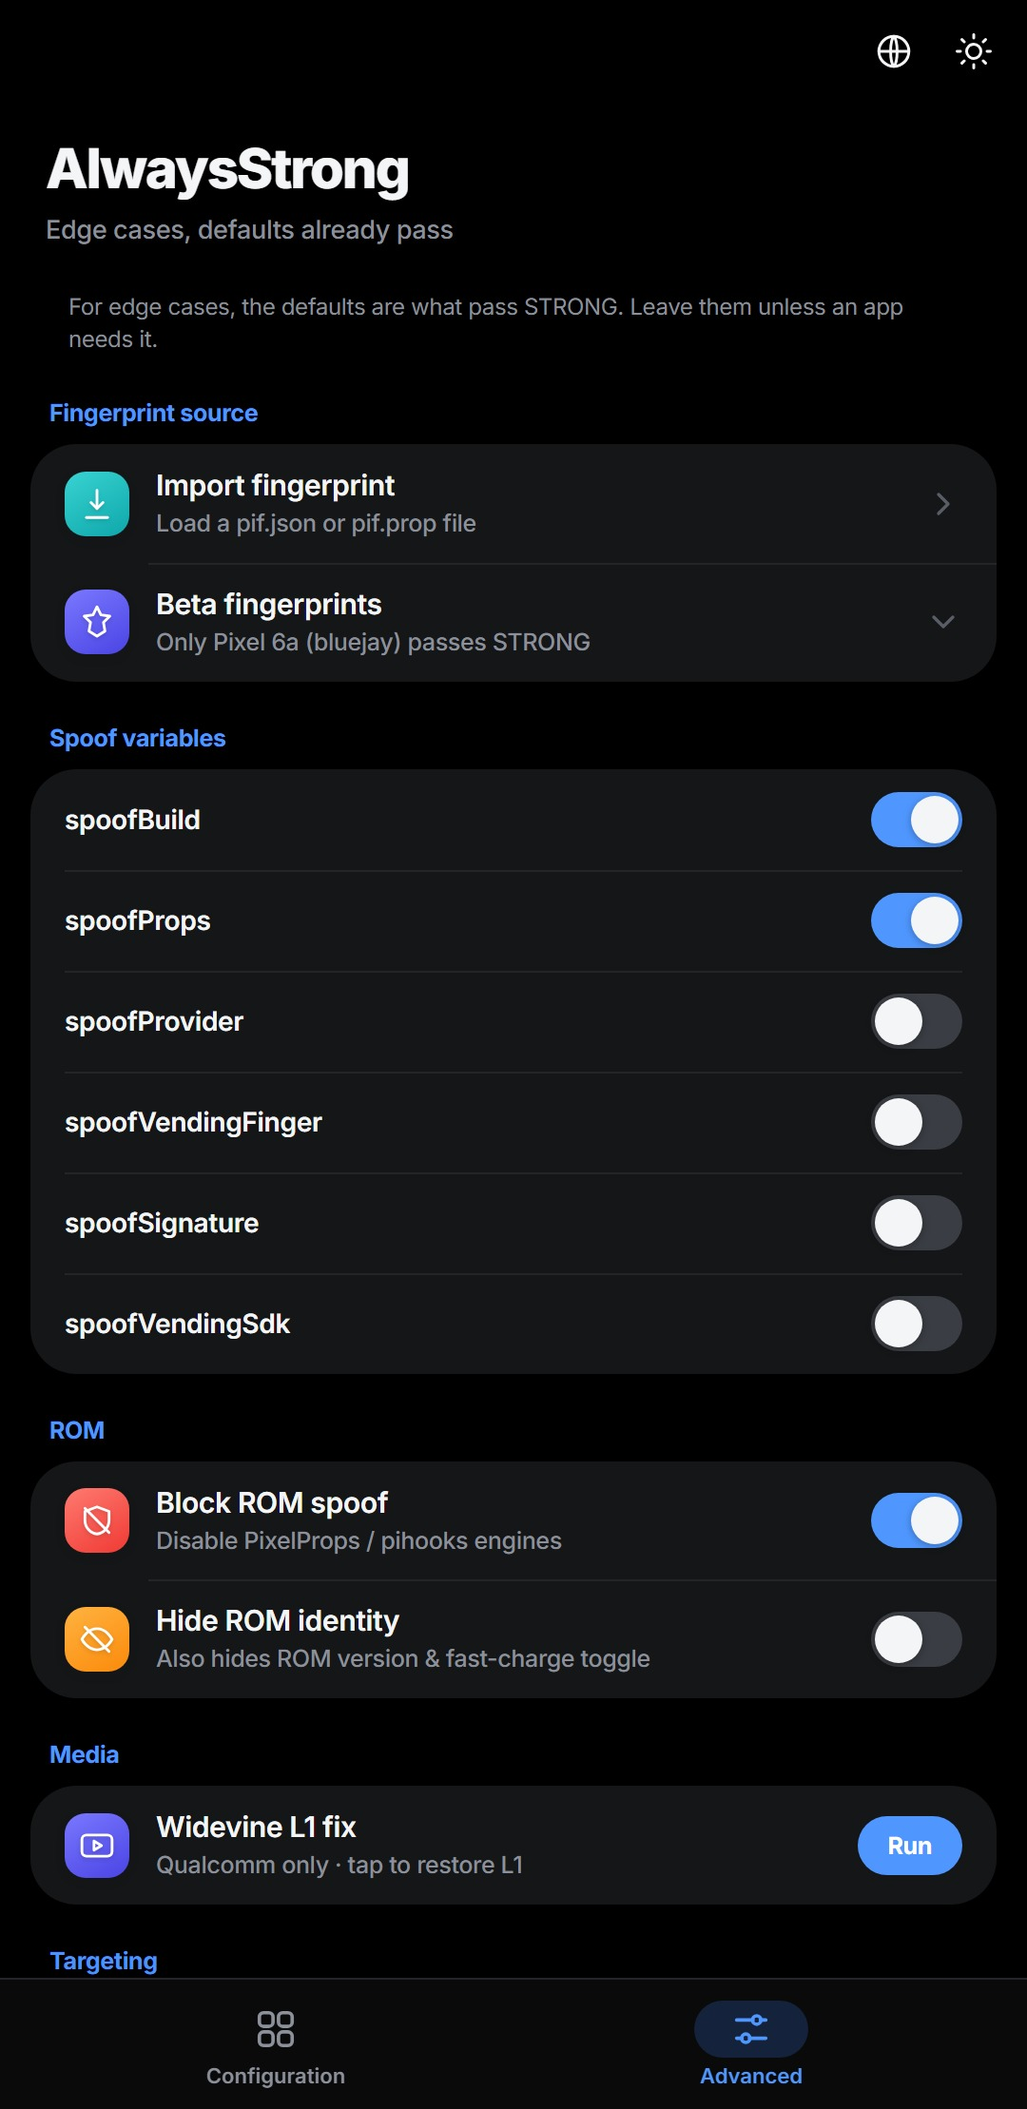
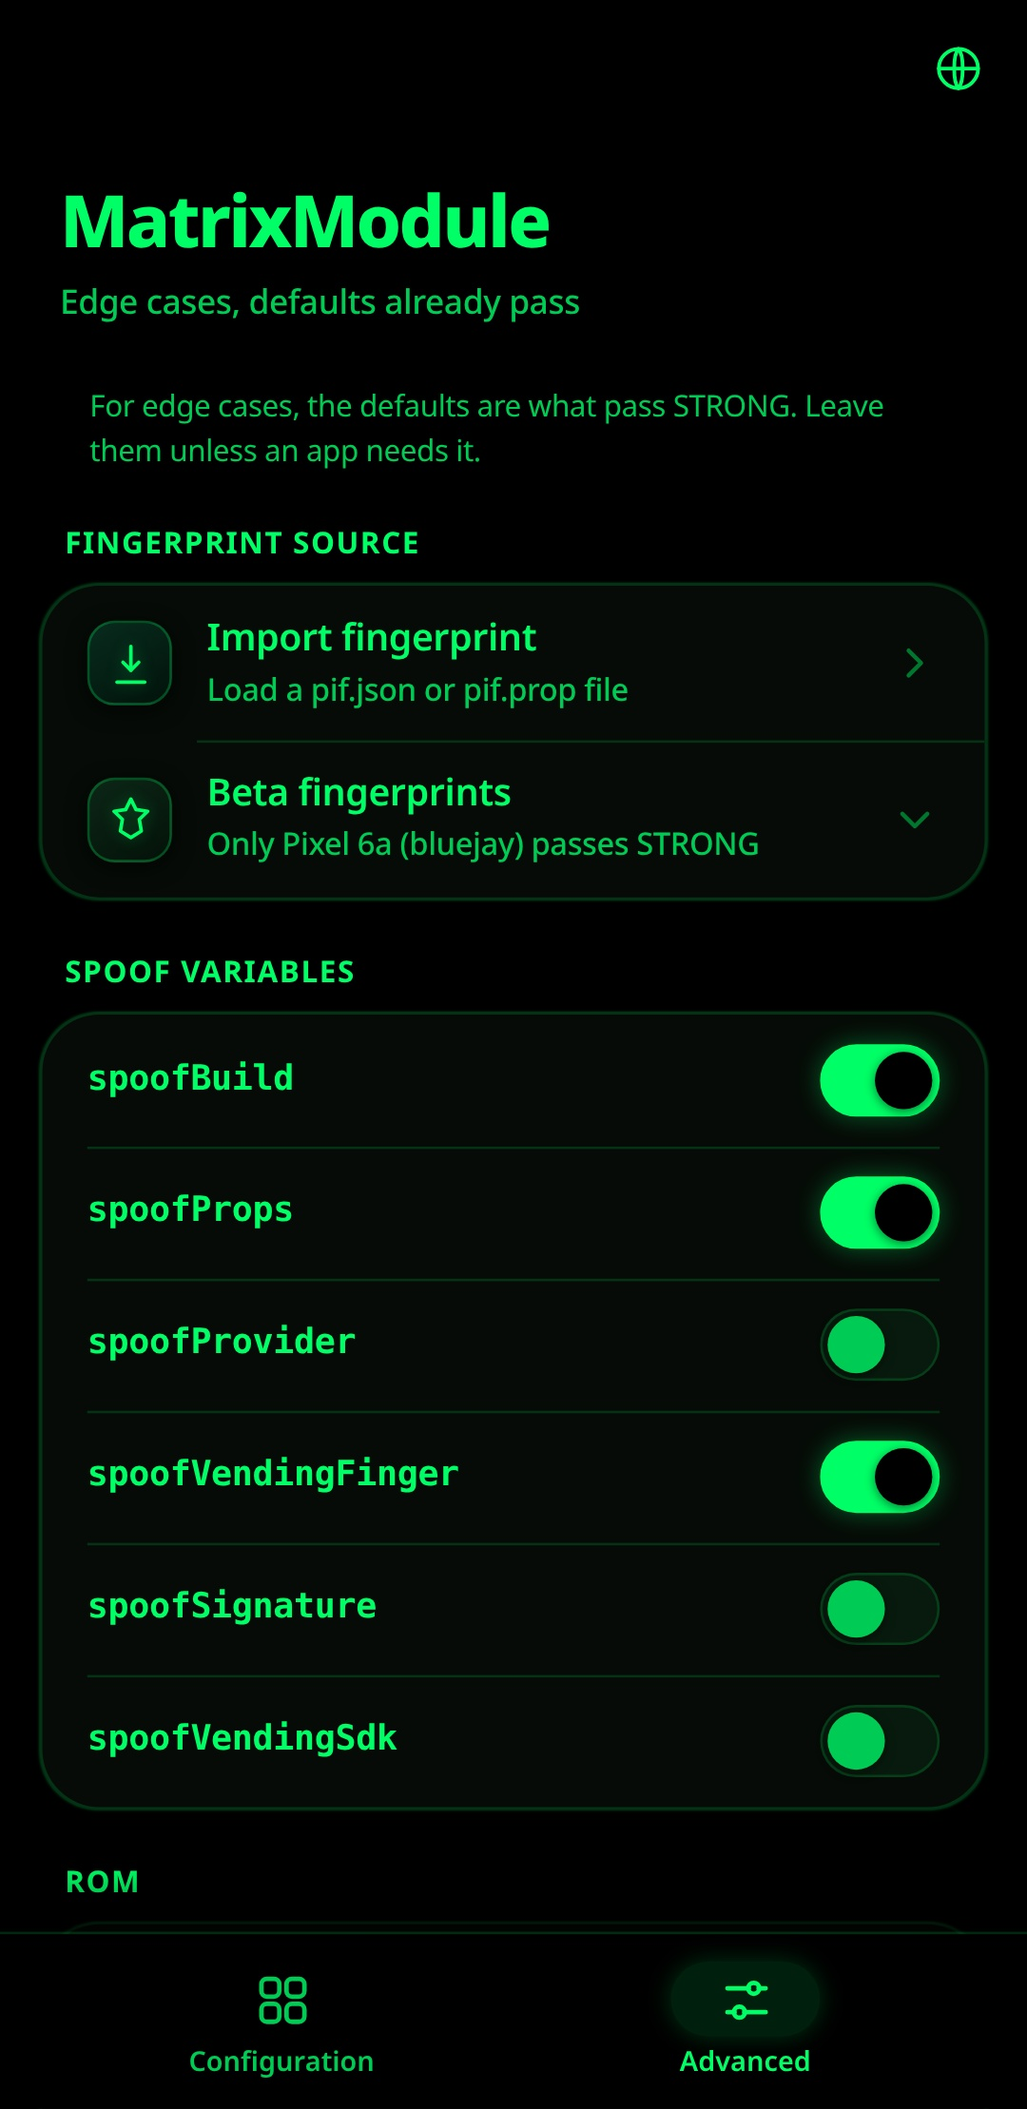
docs: update README with refreshed pitch-black cyber UI screenshots and complete feature guide

diff --git a/scripts/generate_screenshots.py b/scripts/generate_screenshots.py
@@ -1,0 +1,116 @@
+#!/usr/bin/env python3
+import os, sys, time, threading, http.server, socketserver
+from playwright.sync_api import sync_playwright
+
+PORT = 8912
+webroot = os.path.abspath('module/webroot')
+screenshots_dir = os.path.abspath('screenshots')
+os.makedirs(screenshots_dir, exist_ok=True)
+
+class Handler(http.server.SimpleHTTPRequestHandler):
+    def __init__(self, *args, **kwargs):
+        super().__init__(*args, directory=webroot, **kwargs)
+
+class ReusableTCPServer(socketserver.TCPServer):
+    allow_reuse_address = True
+
+httpd = ReusableTCPServer(('127.0.0.1', PORT), Handler)
+t = threading.Thread(target=httpd.serve_forever, daemon=True)
+t.start()
+
+mock_js = """
+window.ksu = {
+  exec: function(cmd, opts, cb) {
+    var out = '';
+    if (cmd.indexOf('pid_attest') !== -1) {
+      out = 'pid_attest=2418\\ndeny_cnt=12\\nhma_status=1\\nhma_mod=0\\nhma_cfg=1\\nhidden_cnt=6\\ntarget_cnt=8\\nspoof_model=Pixel 6a\\nselinux=Enforcing';
+    } else if (cmd.indexOf('description=') !== -1) {
+      out = 'Strong Play Integrity in one drop-in module. TEE-Simulator-RS + PlayIntegrityFork, auto-refreshed.';
+    } else if (cmd.indexOf('keybox.xml') !== -1) {
+      out = '16384|evokerrkey36';
+    } else if (cmd.indexOf('pif_name') !== -1) {
+      out = 'n=Pixel 6a\\nm=bluejay';
+    } else if (cmd.indexOf('SECURITY_PATCH') !== -1) {
+      out = '2026-11-05';
+    } else if (cmd.indexOf('hidden_apps') !== -1) {
+      out = 'com.topjohnwu.magisk\\nme.weishu.kernelsu\\norg.lsposed.manager\\nio.github.vvb2060.magisk\\nbin.mt.plus\\ncom.termux';
+    } else if (cmd.indexOf('target.txt') !== -1) {
+      out = 'com.google.android.gms\\ncom.android.vending\\ncom.google.android.apps.walletnfcrel\\ncom.snapchat.android\\ncom.zhiliaoapp.musically\\ncom.paytm.app';
+    } else if (cmd.indexOf('config') !== -1 || cmd.indexOf('STORE get') !== -1) {
+      out = 'auto_fp=1\\nauto_kb=1\\nstatus_pfx=1\\ninterval_sec=3600';
+    } else if (cmd.indexOf('pm list packages') !== -1) {
+      out = 'com.topjohnwu.magisk\\nme.weishu.kernelsu\\norg.lsposed.manager\\nio.github.vvb2060.magisk\\nbin.mt.plus\\ncom.termux\\ncom.google.android.gms\\ncom.android.vending\\ncom.google.android.apps.walletnfcrel\\ncom.snapchat.android\\ncom.paytm.app';
+    }
+    setTimeout(function() {
+      if (window[cb]) window[cb](0, out, '');
+    }, 10);
+  },
+  getPackagesInfo: function(jsonStr) {
+    var pkgs = JSON.parse(jsonStr || '[]');
+    var map = {
+      'com.topjohnwu.magisk': 'Magisk',
+      'me.weishu.kernelsu': 'KernelSU',
+      'org.lsposed.manager': 'LSPosed',
+      'io.github.vvb2060.magisk': 'Alpha Magisk',
+      'bin.mt.plus': 'MT Manager',
+      'com.termux': 'Termux',
+      'com.google.android.gms': 'Google Play Services',
+      'com.android.vending': 'Google Play Store',
+      'com.google.android.apps.walletnfcrel': 'Google Wallet',
+      'com.snapchat.android': 'Snapchat',
+      'com.paytm.app': 'Paytm'
+    };
+    var res = pkgs.map(function(p) {
+      return { packageName: p, appLabel: map[p] || p };
+    });
+    return JSON.stringify(res);
+  }
+};
+"""
+
+with sync_playwright() as p:
+    browser = p.chromium.launch(headless=True)
+    
+    # 1. Main Configuration WebUI Screenshot
+    context = browser.new_context(
+        viewport={'width': 412, 'height': 846},
+        device_scale_factor=2.621359,
+        color_scheme='dark'
+    )
+    context.add_init_script(mock_js)
+    page = context.new_page()
+    page.goto(f'http://127.0.0.1:{PORT}/index.html')
+    time.sleep(1.2)
+    webui_path = os.path.join(screenshots_dir, 'webui.jpg')
+    page.screenshot(path=webui_path, type='jpeg', quality=95)
+    print(f'Generated: {webui_path}')
+
+    # 2. Advanced Tab Screenshot
+    page.click('button[data-pg="pgAdv"]')
+    time.sleep(0.5)
+    adv_path = os.path.join(screenshots_dir, 'advanced.jpg')
+    page.screenshot(path=adv_path, type='jpeg', quality=95)
+    print(f'Generated: {adv_path}')
+
+    # 3. Languages Modal Screenshot
+    page.click('button[data-pg="pgMain"]')
+    time.sleep(0.3)
+    page.click('#langBtn')
+    time.sleep(0.5)
+    lang_path = os.path.join(screenshots_dir, 'languages.jpg')
+    page.screenshot(path=lang_path, type='jpeg', quality=95)
+    print(f'Generated: {lang_path}')
+
+    # 4. App Isolation (Zero-APK HMA) Modal Screenshot
+    page.reload()
+    time.sleep(1.0)
+    page.click('#hideRow')
+    time.sleep(0.8)
+    isolation_path = os.path.join(screenshots_dir, 'app_isolation.jpg')
+    page.screenshot(path=isolation_path, type='jpeg', quality=95)
+    print(f'Generated: {isolation_path}')
+
+    browser.close()
+
+httpd.shutdown()
+print('All screenshots generated successfully!')

diff --git a/README.md b/README.md
@@ -8,15 +8,22 @@
 [![License](https://img.shields.io/badge/license-GPL--3.0-orange)](LICENSE)
 [![Version](https://img.shields.io/badge/version-v1.1.1-blue)](CHANGELOG.md)
 
-<img src="screenshots/webui.jpg" width="30%" alt="WebUI"> &nbsp; <img src="screenshots/advanced.jpg" width="30%" alt="Advanced"> &nbsp; <img src="screenshots/languages.jpg" width="30%" alt="Translated into 15 languages">
+<p align="center">
+  <img src="screenshots/webui.jpg" width="23%" alt="Dashboard & Live Health"> &nbsp;
+  <img src="screenshots/app_isolation.jpg" width="23%" alt="Zero-APK Root App Isolation"> &nbsp;
+  <img src="screenshots/advanced.jpg" width="23%" alt="Advanced Spoofing"> &nbsp;
+  <img src="screenshots/languages.jpg" width="23%" alt="15 Languages">
+</p>
 
-<sub>Built-in WebUI on KernelSU / APatch: hourly auto-update toggles, an Advanced tab, translated into 15 languages.</sub>
+<sub>Built-in Pitch-Black Cyber WebUI on KernelSU / APatch: Live System Health Dashboard, Zero-APK Root App Isolation, granular Play Integrity spoofing, translated into 15 languages.</sub>
 
 </div>
 
 # MatrixModule
 
-One-flash `STRONG` Play Integrity for Magisk / KernelSU / APatch. It bundles [TEESimulator-RS](https://github.com/Enginex0/TEESimulator-RS) and [PlayIntegrityFork](https://github.com/osm0sis/PlayIntegrityFork) into a single module so you don't have to stack and wire them up yourself.
+**The All-In-One Root Cloaking & Play Integrity Suite for Android (Magisk / KernelSU / APatch / SukiSU).**
+
+MatrixModule unifies **Hardware Attestation (`STRONG`)**, **Automated Play Integrity Fingerprint Spoofing**, and **Built-in Zero-APK App Isolation (HMA)** into a single, clean drop-in module. It bundles [TEESimulator-RS](https://github.com/Enginex0/TEESimulator-RS), [PlayIntegrityFork](https://github.com/osm0sis/PlayIntegrityFork), and an integrated headless Zygote hook engine derived from [HMA-OSS](https://github.com/frknkrc44/HMA-OSS) so you get top-tier root cloaking and integrity passing without managing multiple modules, installing manager APKs, or dealing with manual wiring.
 
 To use this module you need one of the following (latest versions), with a Zygisk implementation installed:
 
@@ -31,10 +38,10 @@ Android 10+ (SDK 29) is required.
 1. Install a Zygisk implementation (Zygisk Next / ReZygisk / NeoZygisk).
 2. Download the latest ZIP from [Releases](https://github.com/mengalpratik/MatrixModule/releases).
 3. Flash it in your root manager and reboot.
-4. Open the module and tap **Action**.
-5. Check your verdict with a checker (Play Integrity API Checker, YASNAC, Simple PIC).
+4. Open the module and tap **Action** (or configure via the built-in WebUI).
+5. Check your verdict with an integrity checker (Play Integrity API Checker, YASNAC, Simple PIC) and root detectors.
 
-The first Action tap fetches a working keybox and a fresh Pixel fingerprint and restarts Play Integrity, so there is no manual keybox step. The installer also removes conflicting standalone modules at install time (TrickyStore, PlayIntegrityFix/Fork, TEESimulator, playcurl/playcurlNEXT, SafetyNet Fix, MagiskHidePropsConf, Tricky Addon, Yurikey, and a few others).
+The first Action tap fetches a working keybox and a fresh Pixel fingerprint and restarts Play Integrity, so there is no manual keybox step. The installer also removes conflicting standalone modules at install time (TrickyStore, PlayIntegrityFix/Fork, TEESimulator, playcurl/playcurlNEXT, SafetyNet Fix, MagiskHidePropsConf, Tricky Addon, Yurikey, and older separate HMA modules).
 
 ### Which build to download
 
@@ -61,42 +68,52 @@ Details, caveats (in particular Lite + `-TEESIM`) and how to build them: **[docs
 
 </details>
 
-## Features
+## Core Features
 
-- **One flash, `STRONG`.** TEESimulator-RS + PlayIntegrityFork in a single module. No stacking, no manual wiring.
+- **Strict Single Module Architecture.** Shows up cleanly as strictly **ONE single module** (`tricky_store`) in Magisk, KernelSU, or APatch. No phantom secondary modules, no manager clutter.
+- **One flash, `STRONG`.** TEESimulator-RS + PlayIntegrityFork merged into a single module. No stacking, no manual wiring.
+- **Built-in Zero-APK App Isolation (HMA Engine).** Headless Zygote package-manager hook engine derived from HMA-OSS. Hide root and sensitive apps (Magisk, KernelSU, APatch, LSPosed, Termux, MT Manager, etc.) with automatic root app detection and 1-tap toggles. Zero APKs required on device; configuration is written directly to `/data/misc/hide_my_applist_*` with real-time `system_server` hot-reloading.
+- **Live System Health & Hiding Dashboard.** Real-time status cards on the WebUI Configuration tab:
+  - 🟢 **Attestation Daemon:** Active supervisor process & PID verification.
+  - 🟢 **Play Integrity Spoof:** Live spoof model & Canary identity.
+  - 🟢 **Root Mount Protection:** Real-time Magisk DenyList / Shamiko protection count.
+  - 🟢 **App Isolation (HMA):** Active headless engine mode & hidden app count.
+  - 🟢 **SELinux & Tamper Props:** Strict Enforcing verification & bootloader flag checks.
+- **Pure Pitch-Black Matrix WebUI.** Pure `#000000` pitch black background, `#060b07` card surfaces, and `#00ff66` neon accents.
 - **Keybox on tap.** The first **Action** fetches a working keybox automatically.
 - **A fingerprint that never goes stale.** Every Action pulls a fresh Pixel fingerprint and matching security patch, and a background service does the same **every hour** (interval configurable, each toggle-able from the WebUI).
-- **Hands-off keybox too.** The hourly service re-checks the keybox and only swaps it in when a newer one is available.
+- **Multi-CDN Mirror Fallback.** Native `asfetch` and shell crawlers automatically fall back across GitHub and jsDelivr CDN mirrors.
+- **GMS DroidGuard Recycling (`as_killpi`).** Force-stops DroidGuard (`com.google.android.gms.unstable`) and Play Store on each refresh with `killall -9` fallback for robust Android 15/16/17 binder compatibility.
 - **Auto target.** A native watcher follows package changes via inotify: install a new app and it's added to the attestation target instantly.
 - **Xposed-aware.** LSPosed / Xposed managers are kept out of the target list, since attesting through a hooked process breaks `STRONG`.
-- **Conflict resolution.** Known conflicting modules (TrickyStore, other PIF / TEE forks, SafetyNet Fix, MagiskHidePropsConf, …) are disabled at install and on every boot.
+- **Conflict resolution.** Known conflicting modules (TrickyStore, other PIF / TEE forks, SafetyNet Fix, MagiskHidePropsConf, older HMA modules, …) are disabled at install and on every boot.
 - **WebUI Advanced tab.** Import your own fingerprint (`pif.json` / `pif.prop`), flip any Play Integrity spoof flag by its real name, add custom target packages, or switch to your own keybox. **Reset to defaults** at the bottom undoes every toggle and re-runs Action, keeping your keybox.
 
 <details>
-<summary><b>More: GMS kill, security-patch sync, one clean module</b></summary>
+<summary><b>More: Security-patch sync, one clean module</b></summary>
 
-- **GMS kill.** Force-stops DroidGuard (`com.google.android.gms.unstable`) and clears the Play Store on each refresh, so a new fingerprint or keybox takes effect without a reboot.
 - **Security-patch sync.** Keeps the OS / vendor / boot security-patch levels reported in attestation aligned with the spoofed fingerprint.
-- **One clean module.** PIF is binary-patched to run inside `tricky_store` — it never litters a separate `playintegrityfix` folder under `/data/adb/modules`.
+- **One clean module.** PIF and HMA are binary-patched to run inside `tricky_store` — they never litter separate folders under `/data/adb/modules`.
 - **Lite builds drive your own PIF.** On a `-nopif` build the Advanced spoof toggles edit a standalone PlayIntegrityFork / PlayIntegrityFix you installed yourself, and its fingerprint is mirrored into the attested identity.
 
 </details>
 
 <details>
-<summary><b>About the module: how the two halves are glued together</b></summary>
+<summary><b>About the module: architecture and engine integration</b></summary>
 
-MatrixModule is two parts merged into one module:
+MatrixModule integrates three critical security and integrity components into one cohesive architecture:
 
-- **TEESimulator-RS** intercepts Binder IPC inside the `keystore2` process and builds full attestation certificate chains from your keybox, so apps that verify hardware key attestation see a legitimate TEE. It is not a fork of TrickyStore; it reuses the same `/data/adb/tricky_store` config layout for drop-in compatibility, but the internals (native Rust certgen, `lsplt` interception, key persistence) are different.
-- **PlayIntegrityFork** injects a `classes.dex` to modify `android.os.Build` fields and hooks native code to spoof system properties, only to Google Play Services' DroidGuard (Play Integrity).
+1. **TEESimulator-RS** intercepts Binder IPC inside the `keystore2` process and builds full attestation certificate chains from your keybox, so apps that verify hardware key attestation see a legitimate TEE. It is not a fork of TrickyStore; it reuses the same `/data/adb/tricky_store` config layout for drop-in compatibility, but the internals (native Rust certgen, `lsplt` interception, key persistence) are different.
+2. **PlayIntegrityFork** injects a `classes.dex` to modify `android.os.Build` fields and hooks native code to spoof system properties, targeting Google Play Services' DroidGuard (Play Integrity).
+3. **Headless HMA-OSS Engine** hooks into the Zygote `system_server` package manager service to isolate target apps from discovering root tools, managers, and sensitive packages, completely eliminating the need for `manager.apk`.
 
-TEESimulator's `classes.dex` is renamed to `tee_classes.dex` so it doesn't collide with PIF's, and PIF's hardcoded module paths are binary-patched to point at `/data/adb/modules/tricky_store` — it never creates a separate `playintegrityfix` folder. The module id stays `tricky_store` so existing tooling and tutorials keep working unchanged.
+TEESimulator's `classes.dex` is renamed to `tee_classes.dex` so it doesn't collide with PIF's, and PIF's hardcoded module paths are binary-patched to point at `/data/adb/modules/tricky_store` — it never creates a separate `playintegrityfix` folder. The module id stays `tricky_store` so existing tooling and root managers keep working unchanged.
 
 </details>
 
 ## The Action button
 
-Triggered from your root manager, or by running `sh action.sh` in a root shell. Each tap rebuilds `target.txt`, refreshes the keybox, pulls a fresh Pixel fingerprint and security patch, and restarts DroidGuard and the Play Store. The verdict updates a few seconds later; no reboot is needed. Every network step is hard-bounded, so a dead network shows "trying with fallback" and the Action still finishes — it never sits on a blank screen.
+Triggered from your root manager, or by running `sh action.sh` in a root shell. Each tap rebuilds `target.txt`, refreshes the keybox, pulls a fresh Pixel fingerprint and security patch, updates HMA package isolation mappings, and restarts DroidGuard and the Play Store. The verdict updates a few seconds later; no reboot is needed. Every network step is hard-bounded, so a dead network shows "trying with fallback" and the Action still finishes — it never sits on a blank screen.
 
 The same refresh also runs on its own in the background every hour (interval configurable from the WebUI), so the module keeps passing with zero manual upkeep.
 
@@ -105,7 +122,9 @@ The same refresh also runs on its own in the background every hour (interval con
 Everything lives at `/data/adb/tricky_store/` and is reloaded automatically when changed. The Action button keeps it current, so most users never need to touch any of it.
 
 - **`keybox.xml`** — the attestation keybox, fetched automatically on the first Action tap. To use your own, switch on *Custom keybox* in the WebUI (or place the file here) and it won't be overwritten. To point the auto-refresh at a different mirror, set `KEYBOX_BASE_URL` for `keybox_fetch.sh`; the script validates the payload before replacing the current file.
-- **`alwaysstrong/`** — everything the module itself keeps, in one directory beside the engine's files: `config` (every setting the WebUI writes, one `key=value` line each — `auto_fp=0`, `interval_sec=1800`), `apps.map` (per-app keybox and mode), `packages`, `state`, `logs/`. Editing `config` by hand works, and deleting it puts every setting back to default. Upgrades import the old layout, where each switch was its own marker file (`no_auto_fp`, `hourly_interval_sec`, ...), and clear those away.
+- **`target.txt`** — apps that receive hardware key attestation and package isolation protection.
+- **`alwaysstrong/`** — everything the module itself keeps: `config` (every setting the WebUI writes), `hidden_apps` (apps isolated and hidden via headless HMA), `apps.map` (per-app keybox and mode), `packages`, `state`, `logs/`. Editing `config` by hand works, and deleting it puts every setting back to default.
+- **`/data/misc/hide_my_applist_*/`** — synced in real time by MatrixModule WebUI and `hma_sync.sh` to enforce PMS-level package hiding.
 
 ## Building
 
@@ -138,17 +157,19 @@ Direct link: [buymeacoffee.com/pratikmengal](https://buymeacoffee.com/pratikmeng
 ## Credits
 
 <div align="center">
-<img src="screenshots/built-on.png" alt="MatrixModule stands on the shoulders of TEESimulator-RS and PlayIntegrityFork" width="600">
+<img src="screenshots/built-on.png" alt="MatrixModule Architecture" width="600">
 </div>
 
-MatrixModule is combine of TEE-Simulator-RS + Play Integrity Fork
+MatrixModule stands on the shoulders of the open-source Android root & security research community:
 
-- [JingMatrix](https://github.com/JingMatrix/TEESimulator) — original TEESimulator and keystore2 interception
+- [frknkrc44](https://github.com/frknkrc44) & [Dr-TSNG](https://github.com/Dr-TSNG) — [HMA-OSS](https://github.com/frknkrc44/HMA-OSS) (Hide My Applist) PMS hook engine and package isolation
+- [Evokerr](https://gitlab.com/Evokerr) — [AlwaysStrong](https://gitlab.com/Evokerr/AlwaysStrong) Play Integrity spoofing logic and architecture
 - [Enginex0](https://github.com/Enginex0/TEESimulator-RS) — TEESimulator-RS (Rust port, native certgen, AOSP-spec attestation)
+- [JingMatrix](https://github.com/JingMatrix/TEESimulator) — original TEESimulator and keystore2 interception
 - [5ec1cff](https://github.com/5ec1cff/TrickyStore) — TrickyStore, which pioneered keystore interception and the config-dir layout reused here
 - [beakthoven](https://github.com/beakthoven/TrickyStoreOSS) — TrickyStoreOSS, the open-source keystore engine offered as a self-build option
-- [chiteroman](https://github.com/chiteroman) — original Play Integrity Fix
 - [osm0sis](https://github.com/osm0sis/PlayIntegrityFork) — PlayIntegrityFork, the maintained fork bundled here
+- [chiteroman](https://github.com/chiteroman) — original Play Integrity Fix
 - [Displax](https://github.com/Displax/safetynet-fix) — module boot scripts forked into PIF
 - [daboynb](https://github.com/daboynb/playcurlNEXT) — fingerprint auto-refresh approach
 - [LSPlt](https://github.com/LSPosed/LSPlt) (PLT hooks) and [ring](https://github.com/briansmith/ring) (Rust crypto)
@@ -160,4 +181,4 @@ Author & Maintenance: **Pratik Mengal** ([@mengalpratik](https://github.com/meng
 
 Copyright (c) 2026 Pratik Mengal. All rights reserved.
 
-Licensed under GPL-3.0. MatrixModule bundles TEESimulator-RS (GPL-3.0), which makes the combined distribution GPL-3.0. See [LICENSE](LICENSE) and the upstream repos for full terms. Provided as-is, with no warranty; `STRONG` depends on a non-revoked hardware keybox, which the module cannot mint for you.
+Licensed under GPL-3.0. MatrixModule bundles TEESimulator-RS (GPL-3.0) and HMA-OSS components (GPL-3.0), which makes the combined distribution GPL-3.0. See [LICENSE](LICENSE) and the upstream repos for full terms. Provided as-is, with no warranty; `STRONG` depends on a non-revoked hardware keybox, which the module cannot mint for you.
